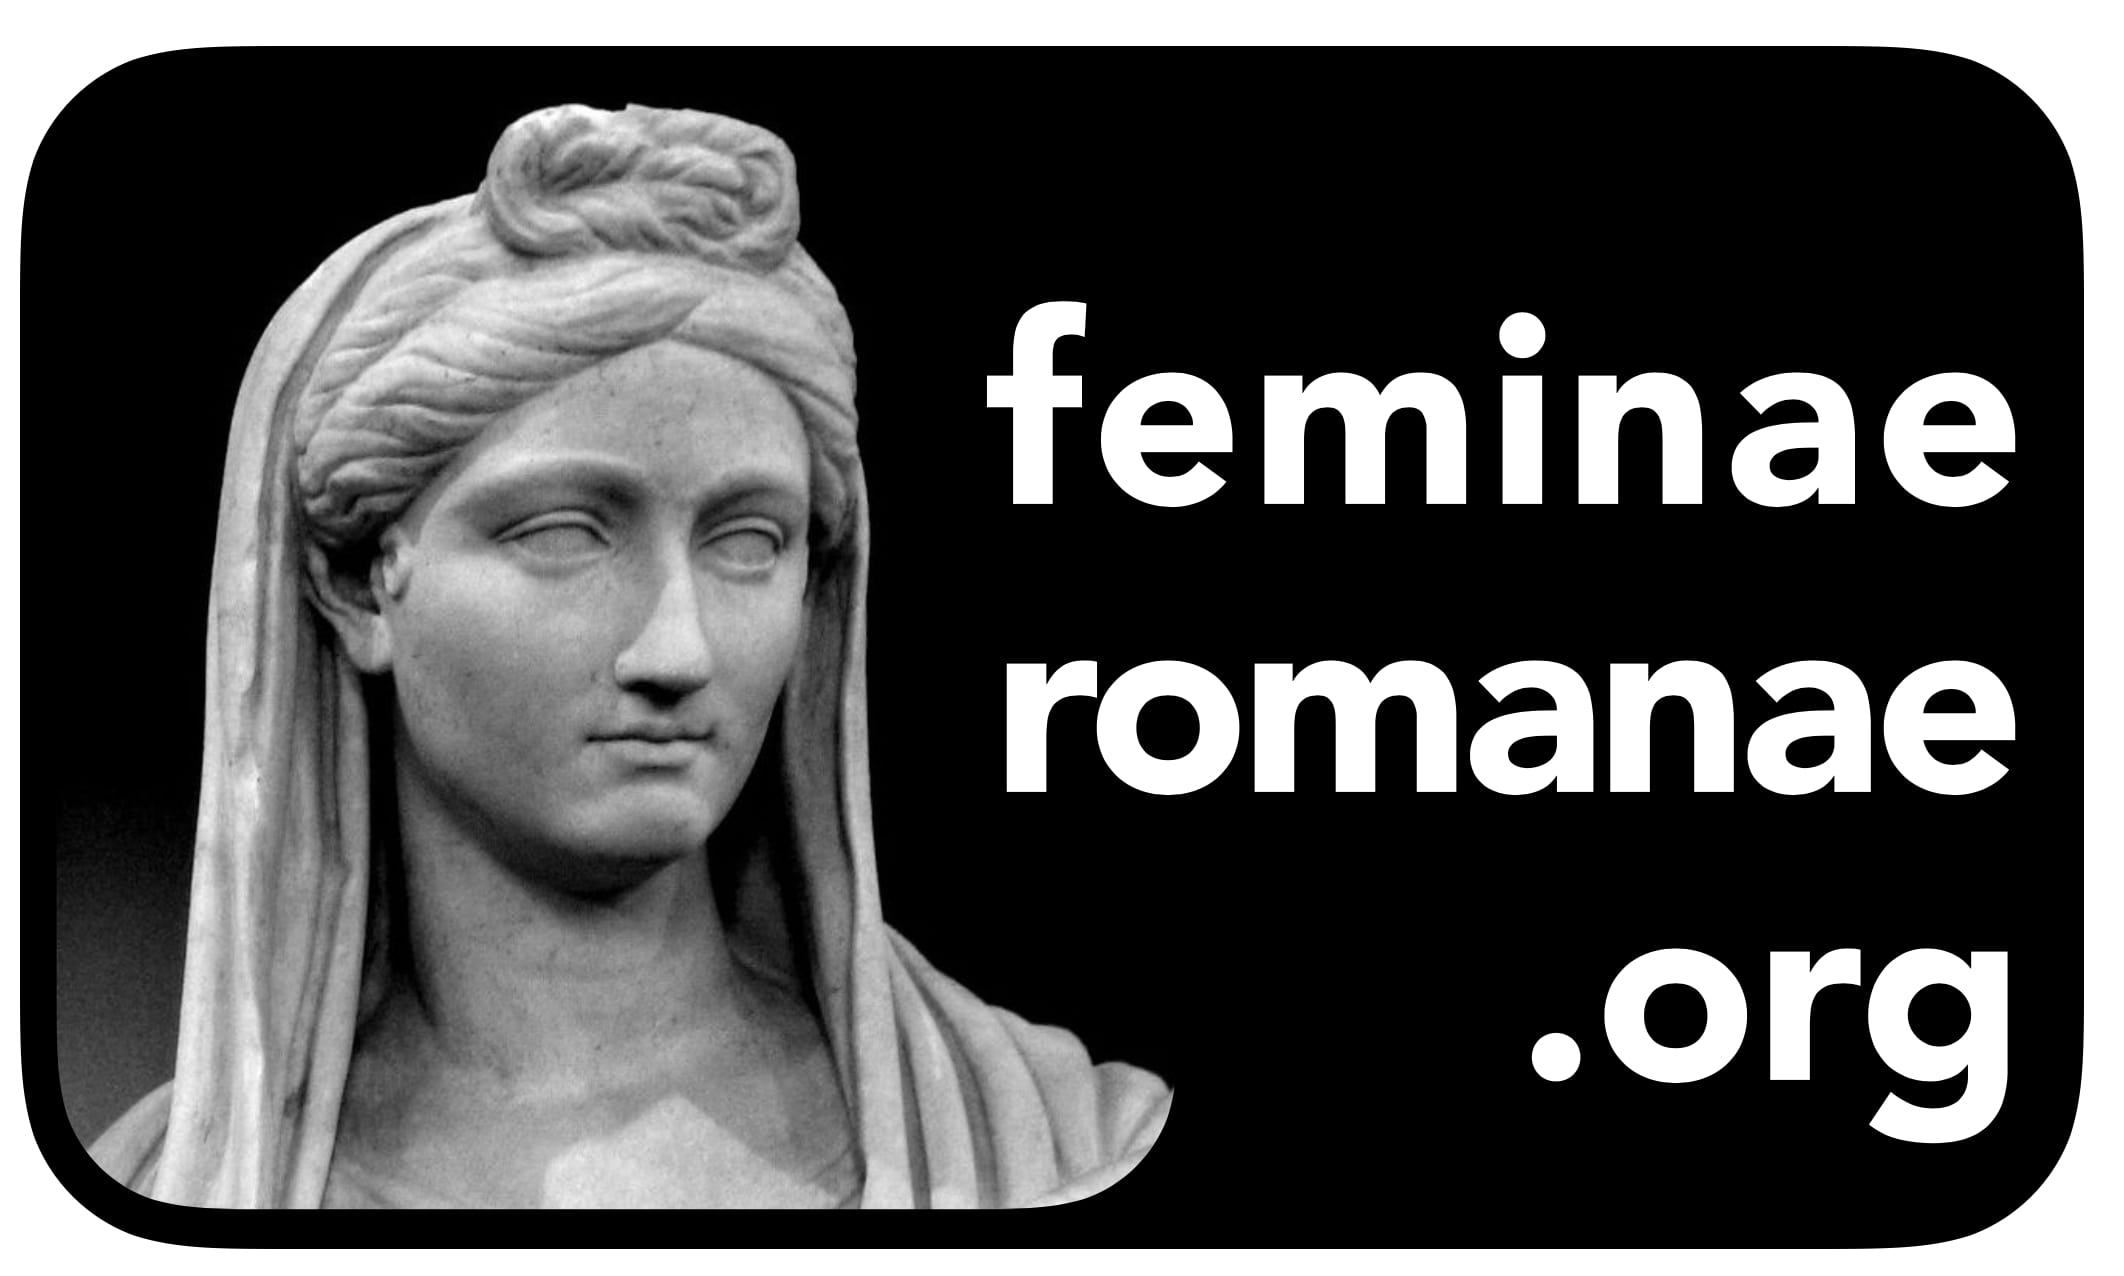
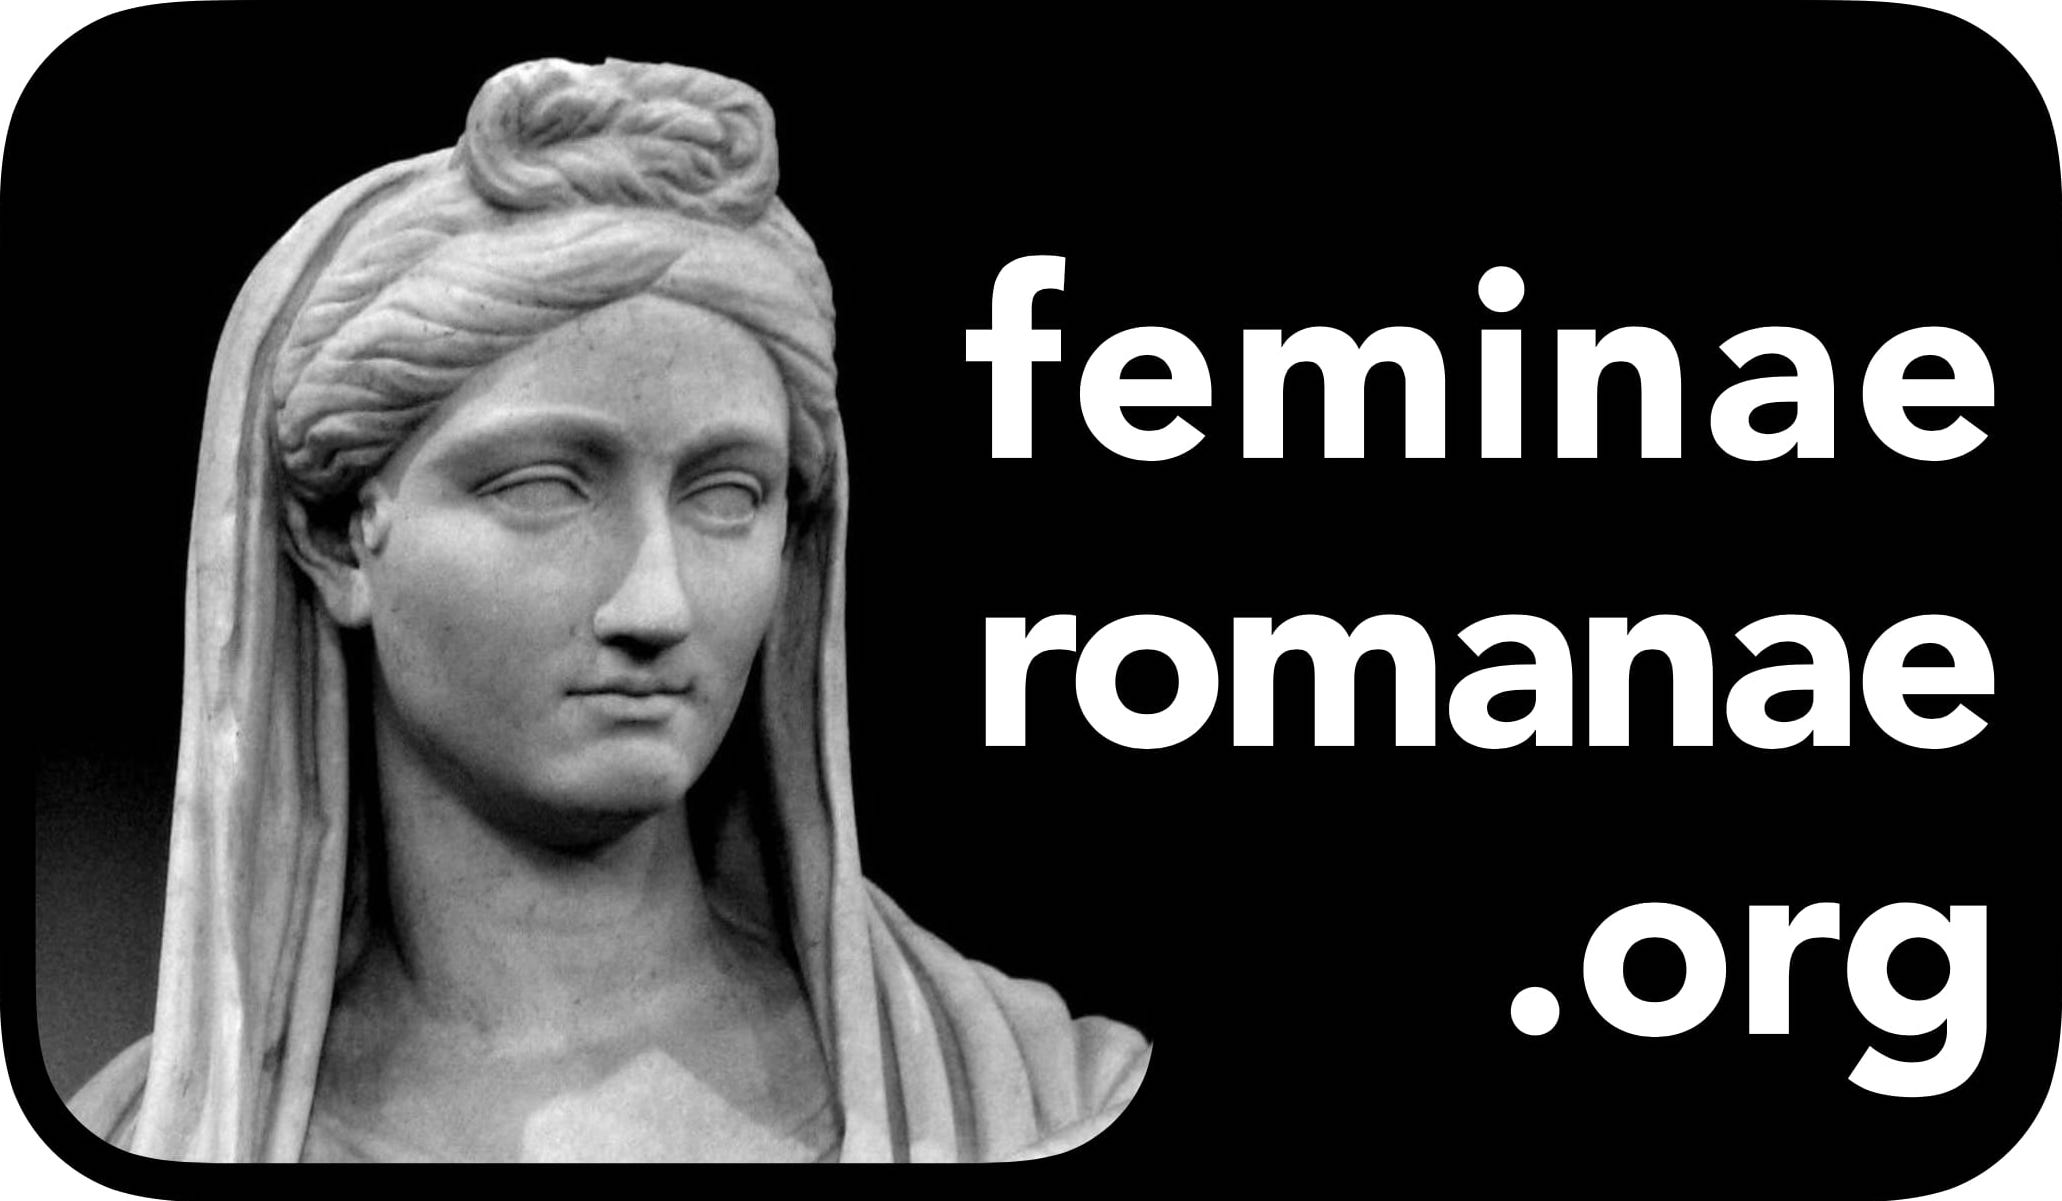
clean up LISTS in to-do

diff --git a/FastBridgeApp/templates/lemmatize_help.html b/FastBridgeApp/templates/lemmatize_help.html
@@ -18,7 +18,7 @@
 <p style="padding-left: 40px;">3. Import a DICTIONARY sheet into your Spreadsheet by dragging the DICTIONARY sheet into the sheet bar at the bottom of the TEXT Spreadsheet.&nbsp;</p>
 <p style="padding-left: 80px;">You can download Bridge DICTIONARY, as well as LIST spreadsheets at <a href="https://github.com/GitClassical/Bridge/tree/master/data">GitClassical/Bridge</a>.</p>
 <p style="padding-left: 80px;"><a href="https://iris.haverford.edu/bridge/files/2017/08/ezgif.com-video-to-gif.gif"><img class="size-full wp-image-702 alignnone" src="https://iris.haverford.edu/bridge/files/2017/08/ezgif.com-video-to-gif.gif" alt="" width="480" height="329"></a></p>
-<p style="padding-left: 40px;">4. Add column headers. Add at least PRINCIPAL_PARTS and SHORT_DEFINITION. You may also add the Bridge columns LONG_DEFINITION, LOCAL_DEFINITION, and LOCAL_PRINCIPAL_PARTS — as well as any other columns for personal use (e.g., QUESTIONS, PROBLEMS, etc.).</p>
+<p style="padding-left: 40px;">4. Add column headers. Add at least PRINCIPAL_PARTS and SHORT_DEFINITION. You may also add the Bridge columns LONG_DEFINITION, TEXT_SPECIFIC_DEFINITION, and TEXT_SPECIFIC_PRINCIPAL_PARTS — as well as any other columns for personal use (e.g., QUESTIONS, PROBLEMS, etc.).</p>
 <p style="padding-left: 80px;"><a href="https://iris.haverford.edu/bridge/files/2017/08/Screen-Shot-2020-07-24-at-11.02.08-AM.png"><img class="wp-image-704 alignnone" src="https://iris.haverford.edu/bridge/files/2017/08/Screen-Shot-2020-07-24-at-11.02.08-AM.png" alt="" width="780" height="64"></a></p>
 <p style="padding-left: 40px;">5a. Link your TEXT sheet to the DICTIONARY by adding these formulae to the first row of data in the correct columns.</p>
 <p style="padding-left: 80px;">a. PRINCIPAL_PARTS: =VLOOKUP(A2,DICTIONARY!A:F,2,FALSE)
@@ -82,7 +82,7 @@ https://youtu.be/yum-qlHFMSg
       
       png" alt="" width="625" height="411"> <strong>Figure 4. Logion</strong>[/caption]
 <p style="padding-left: 60px;"><strong>* &nbsp;</strong>LaNe =<strong>&nbsp;</strong>Woordenboek Latijn/Nederlands, 6th revised edition 2014,&nbsp;a Latin-Dutch translation dictionary, originally based on <em>Pons Globalwörterbuch Lateinisch-Deutsch</em> (Klett) but with full coverage of all entries also contained in the <em>Oxford Latin Dictionary. &nbsp;</em>It is the current gold standard for Latin vowel quantities.</p>
-<p style="padding-left: 20px;"><b>ADDING CUSTOM DEFINITIONS [Optional]</b>: if you are adding custom definitions for your text, be&nbsp;sure that the LOCAL_DEFINITION for each word is the best definition for the word. Modify these as needed.</p>
+<p style="padding-left: 20px;"><b>ADDING CUSTOM DEFINITIONS [Optional]</b>: if you are adding custom definitions for your text, be&nbsp;sure that the TEXT_SPECIFIC_DEFINITION for each word is the best definition for the word. Modify these as needed.</p>
 <p style="padding-left: 60px;"><a href="http://logeion.uchicago.edu">Logeion</a> is also a great place to find/copy definitions (but be thoughtful about this; make sure that you include definitions relevant to your text).</p>
 <p style="padding-left: 20px;"><b>ADDING CUSTOM PRINCIPAL PARTS [Optional]</b>: if you are adding custom principal parts for your text, be&nbsp;sure that the LOCAL_PRINCIPAL_PARTS for each word is the best definition for the word. Modify these as needed.</p>
 

diff --git a/FastBridgeApp/templates/footer.html b/FastBridgeApp/templates/footer.html
@@ -5,11 +5,11 @@
         <div class="col-xs-3 col-sm-2 p5"></div>
 
     <div class="col-xs-4 col-sm-3 p5 align-items-center">
-        <a href="https://www.lasla.uliege.be"><img class="verticalcenter max-width: 95%"  id="LASLA-logo" src="/assets/img/LASLA-logo.jpg"></img></a></div>
+        <a href="https://www.lasla.uliege.be"><img class="verticalcenter max-width: 95% img-responsive"  id="LASLA-logo" src="/assets/img/LASLA-logo.png"></img></a></div>
      <div class="col-xs-4 col-sm-3 p5 align-items-center">
-        <a href="http://dcc.dickinson.edu"><img class="verticalcenter max-width: 95%" id="DCC-logo" src="/assets/img/DCC-logo.jpg"></img></a></div>
-    <div class="col-xs-4 col-sm-3 p5 align-items-center" style="display:flex">
-        <a href="https://feminaeromanae.org/" width="20"><img class="verticalcenter max-width: 95%"  id="Feminae-logo" src="/assets/img/feminae.png"></img></a></div>
+        <a href="http://dcc.dickinson.edu"><img class="verticalcenter max-width: 95% img-responsive" id="DCC-logo" src="/assets/img/DCC-logo.png"></img></a></div>
+    <div class="col-xs-4 col-sm-4 p5 align-items-center" style="display:flex">
+        <a href="https://feminaeromanae.org/" width="20"><img class="verticalcenter img-feminae" id="Feminae-logo" src="/assets/img/feminae_removebg.png"></img></a></div>
        </div>
     </div>
     <div id="secondColumnFooter" class="col-xs-12 col-sm-4 col-md-4 col-lg-6 container-fluid col-centered">

diff --git a/FastBridgeApp/templates/delete.html b/FastBridgeApp/templates/delete.html
@@ -27,7 +27,7 @@
          <div class="col-sm"
 
        <label for="local_def">
-        Does the text have local definitions? </label>
+        Does the text have text-specific definitions? </label>
        <input class="form-control" id = "local_defs_no" type="radio" name = "local_def" value = "No">
        <label for="local_defs_no">No</label>
        <input class="form-control" id = "local_defs_yes" type="radio" name = "local_def" value = "Yes">

diff --git a/FastBridgeApp/templates/import.html b/FastBridgeApp/templates/import.html
@@ -37,7 +37,7 @@
          <div class="col-sm"
 
        <label for="local_def">
-        Does the text have local definitions? </label>
+        Does the text have text-specific definitions? </label>
        <input class="form-control" id = "local_defs_no" type="radio" name = "local_def" value = "No">
        <label for="local_defs_no">No</label>
        <input class="form-control" id = "local_defs_yes" type="radio" name = "local_def" value = "Yes">

diff --git a/FastBridgeApp/static/assets/css/styles.css b/FastBridgeApp/static/assets/css/styles.css
@@ -15,6 +15,15 @@ img {
   padding: 1vh 1vh 1vh 1vh;
 }
 
+.img-responsive {
+  width: auto;
+  height: 50px;
+}
+.img-feminae {
+  width: 86px;
+  height: 50px;
+}
+
 .btn-nonbs {
   border: 1px;
   border-color: white;

diff --git a/FastBridgeApp/DefinitionTools.py b/FastBridgeApp/DefinitionTools.py
@@ -50,10 +50,10 @@ def get_lang_data(words : list, dictionary: str, local_defs_bool : bool = False,
     if local_defs_bool and local_lem:
         local_defs =[word[3] for word in words]
         local_lems =[word[4] for word in words]
-        Word = namedtuple("Word", columnheaders + row_filters + ["Appearance", "Total_Count_in_Text", "Source_Text", "LOCAL_DEFINITION", "TEXT_SPECIFIC_PRINCIPAL_PARTS"])
+        Word = namedtuple("Word", columnheaders + row_filters + ["Appearance", "Total_Count_in_Text", "Source_Text", "TEXT_SPECIFIC_DEFINITION", "TEXT_SPECIFIC_PRINCIPAL_PARTS"])
     elif local_defs_bool:
         local_defs =[word[3] for word in words]
-        Word = namedtuple("Word", columnheaders + row_filters + ["Appearance", "Total_Count_in_Text", "Source_Text", "LOCAL_DEFINITION"])
+        Word = namedtuple("Word", columnheaders + row_filters + ["Appearance", "Total_Count_in_Text", "Source_Text", "TEXT_SPECIFIC_DEFINITION"])
 
     elif local_lem:
         local_lems =[word[4] for word in words]
@@ -119,15 +119,18 @@ def get_lang_data(words : list, dictionary: str, local_defs_bool : bool = False,
     POS = list(POS)
     POS.sort()
     columnheaders = columnheaders[1:] #we don't want a filter for title, that is just to make accessing dicts easier
+    print(columnheaders)
     links = columnheaders[-2:]
     reorder = [head.lower() if head.split("_")[1]!="PARTS" else head for head in columnheaders[:-2]]
+    print(reorder)
 
 
     if local_defs_bool:
-        reorder.append("local_definition")
+        reorder.append("text_specific_definition")
     if local_lem:
-        reorder.append("text_specific_principal_parts")
+        reorder.append("TEXT_SPECIFIC_PRINCIPAL_PARTS")
 
+    print(reorder)
     reorder.sort(key=lambda x: x.split("_")[-1])
     print(reorder)
     columnheaders = [head.upper() for head in reorder]

diff --git a/FastBridgeApp/routers/select.py b/FastBridgeApp/routers/select.py
@@ -245,8 +245,8 @@ def build_html_for_clusterize(words, POS_list, columnheaders, row_filters, style
     rules_added = 1 #we set table data width in this stylesheet already
     for i in range(len(columnheaders)):
         headers+= f'<div class="form-group"> <div class="custom-control custom-checkbox">'
-        if columnheaders[i] == "PRINCIPAL_PARTS" or columnheaders[i] == "SHORT_DEFINITION" or columnheaders[i] == "LOCAL_DEFINITION":
-            if columnheaders[i] == "SHORT_DEFINITION" and "LOCAL_DEFINITION" in columnheaders:
+        if columnheaders[i] == "PRINCIPAL_PARTS" or columnheaders[i] == "SHORT_DEFINITION" or columnheaders[i] == "TEXT_SPECIFIC_DEFINITION":
+            if columnheaders[i] == "SHORT_DEFINITION" and "TEXT_SPECIFIC_DEFINITION" in columnheaders:
                 style+= f'.{columnheaders[i]} {{display : none !important}}'
                 header_js_obj[columnheaders[i]][0] =rules_added
                 rules_added +=1
@@ -287,7 +287,7 @@ def build_table(words: list, columnheaders: list, frequency_dict: dict, titles :
         for i in range(len(columnheaders)): #removing TITLE from the column headers makes things be o
             #print(columnheaders[i][-5:])
             if(columnheaders[i] == "LOCAL_DEFINITION"):
-                to_add_to_render_words+= f'<td class="{columnheaders[i]}">{words[j][0].LOCAL_DEFINITION}</td>'
+                to_add_to_render_words+= f'<td class="{columnheaders[i]}">{words[j][0].TEXT_SPECIFIC_DEFINITION}</td>'
                 lst.append(words[j][0][-4])
             elif(columnheaders[i] == "TEXT_SPECIFIC_PRINCIPAL_PARTS"):
                 to_add_to_render_words+= f'<td class="{columnheaders[i]}">{words[j][0].TEXT_SPECIFIC_PRINCIPAL_PARTS}</td>'
